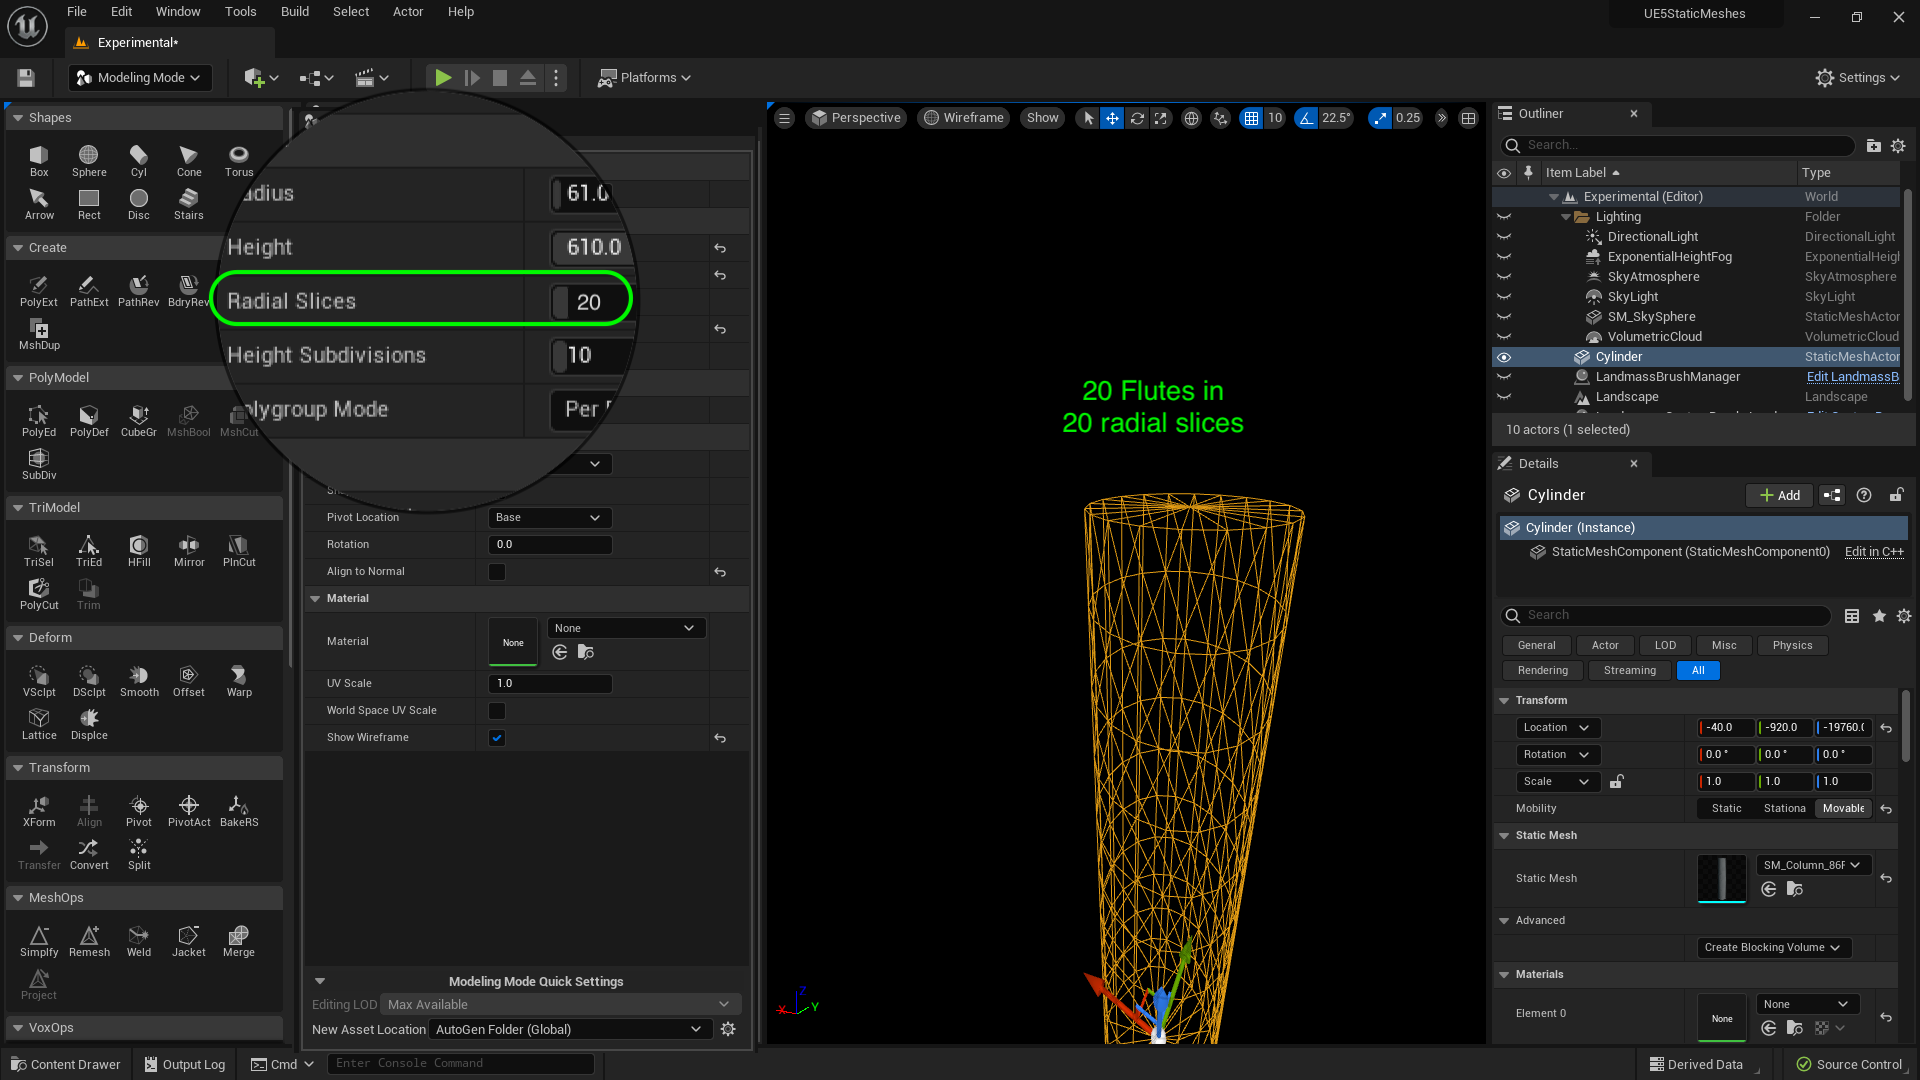
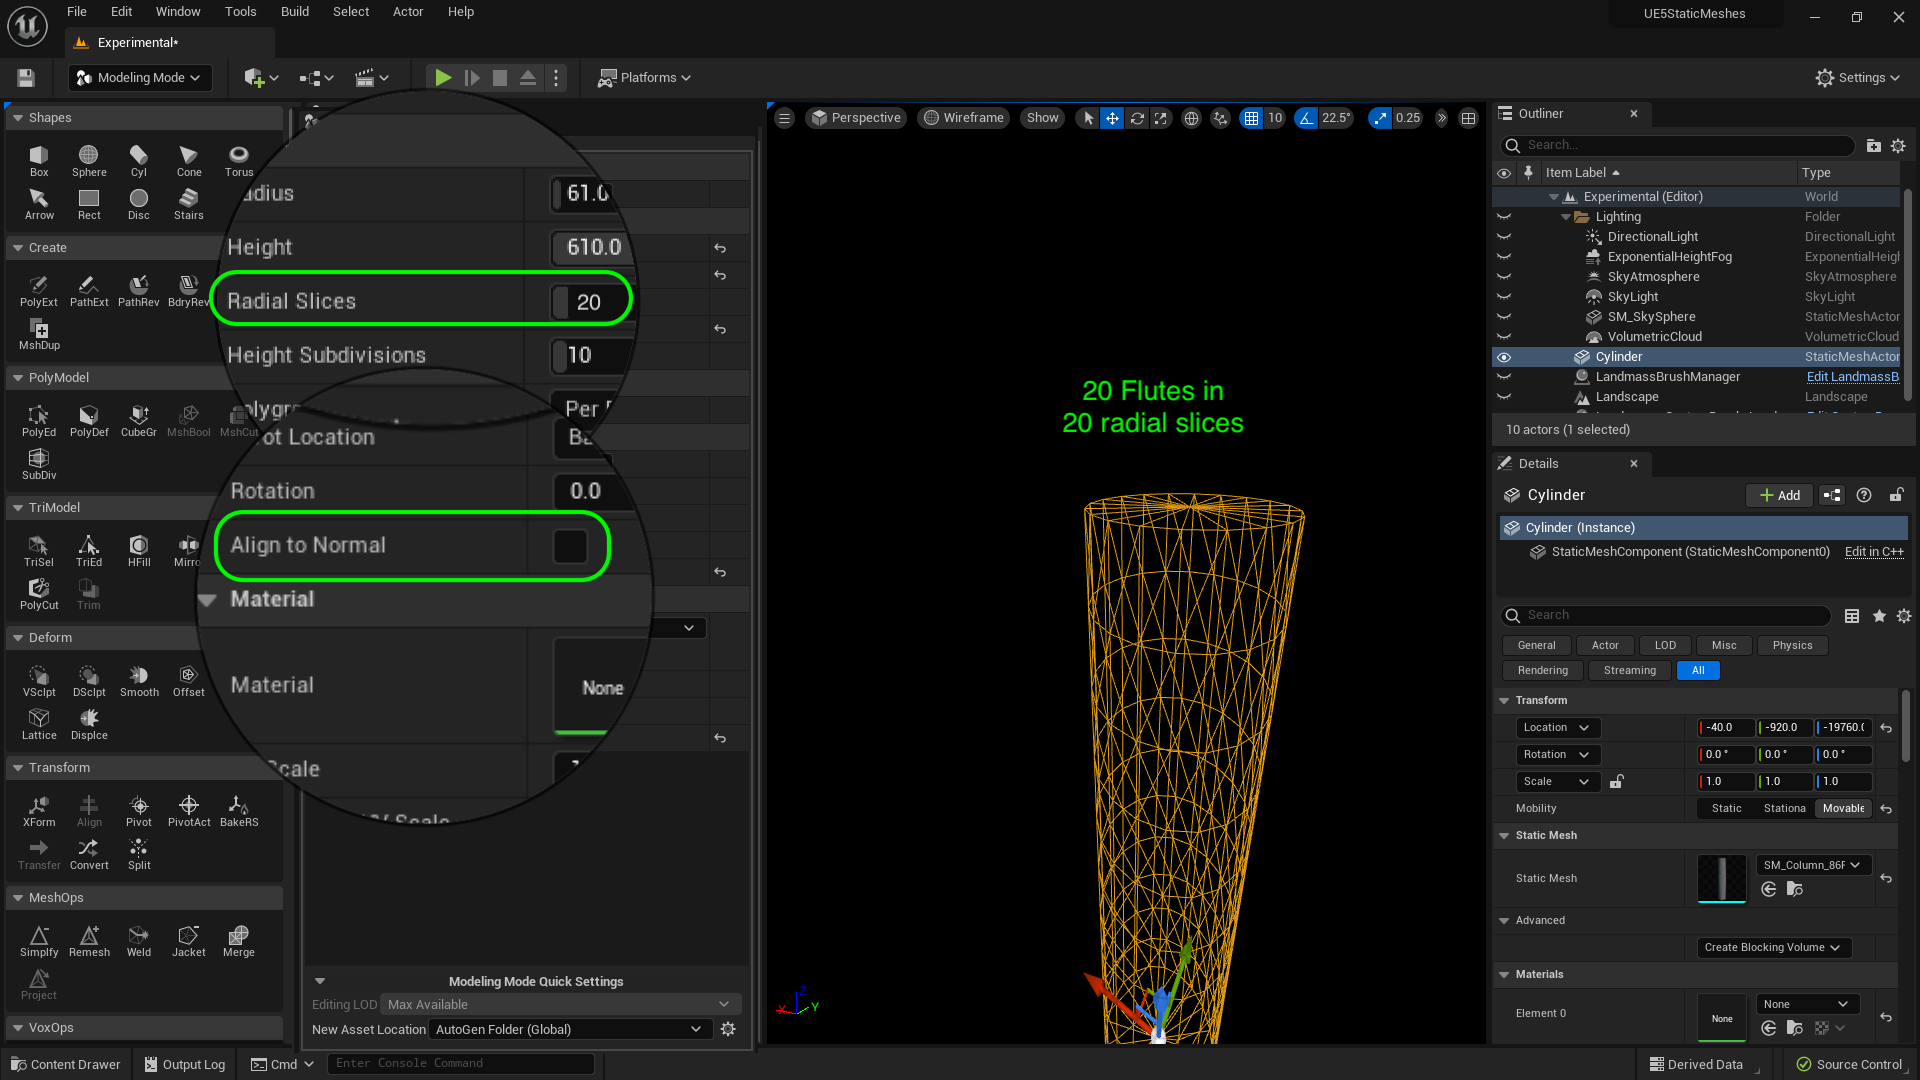
updating sm to ue5

Changed region(s): [[0.0938, 0.3667, 0.3438, 0.7028], [0.125, 0.7028, 0.1875, 0.7333], [0.2812, 0.6722, 0.3125, 0.7028]]

diff --git a/basic-column/README.md b/basic-column/README.md
@@ -40,6 +40,8 @@ Enter into **Modeling** mode and select the **Cyl** (Cylinder) shape and lets gi
 
 Set **Show Wireframe** to `true`.  Now the faces along the vertical axis are very long.  We want to have the faces sort of match how the object is constructed.  Now these pillars were not carved into one piece of stone, they were equally sized rounds stacked on top of each other.  A common number was ten.  We lets subdivide the height by setting the **Height Subdivision** to `10`.  Now you see that it splits a face for each of the pieces. o not press the **Complete** button yet.
 
+Set **Align to Normal** to `false`. This way the column will be straight up and down and it won't rotate it to match the landscape normal.
+
 ![height subdivision of 10](images/TenCylinders.png)
 
 ![](../images/line2.png)
